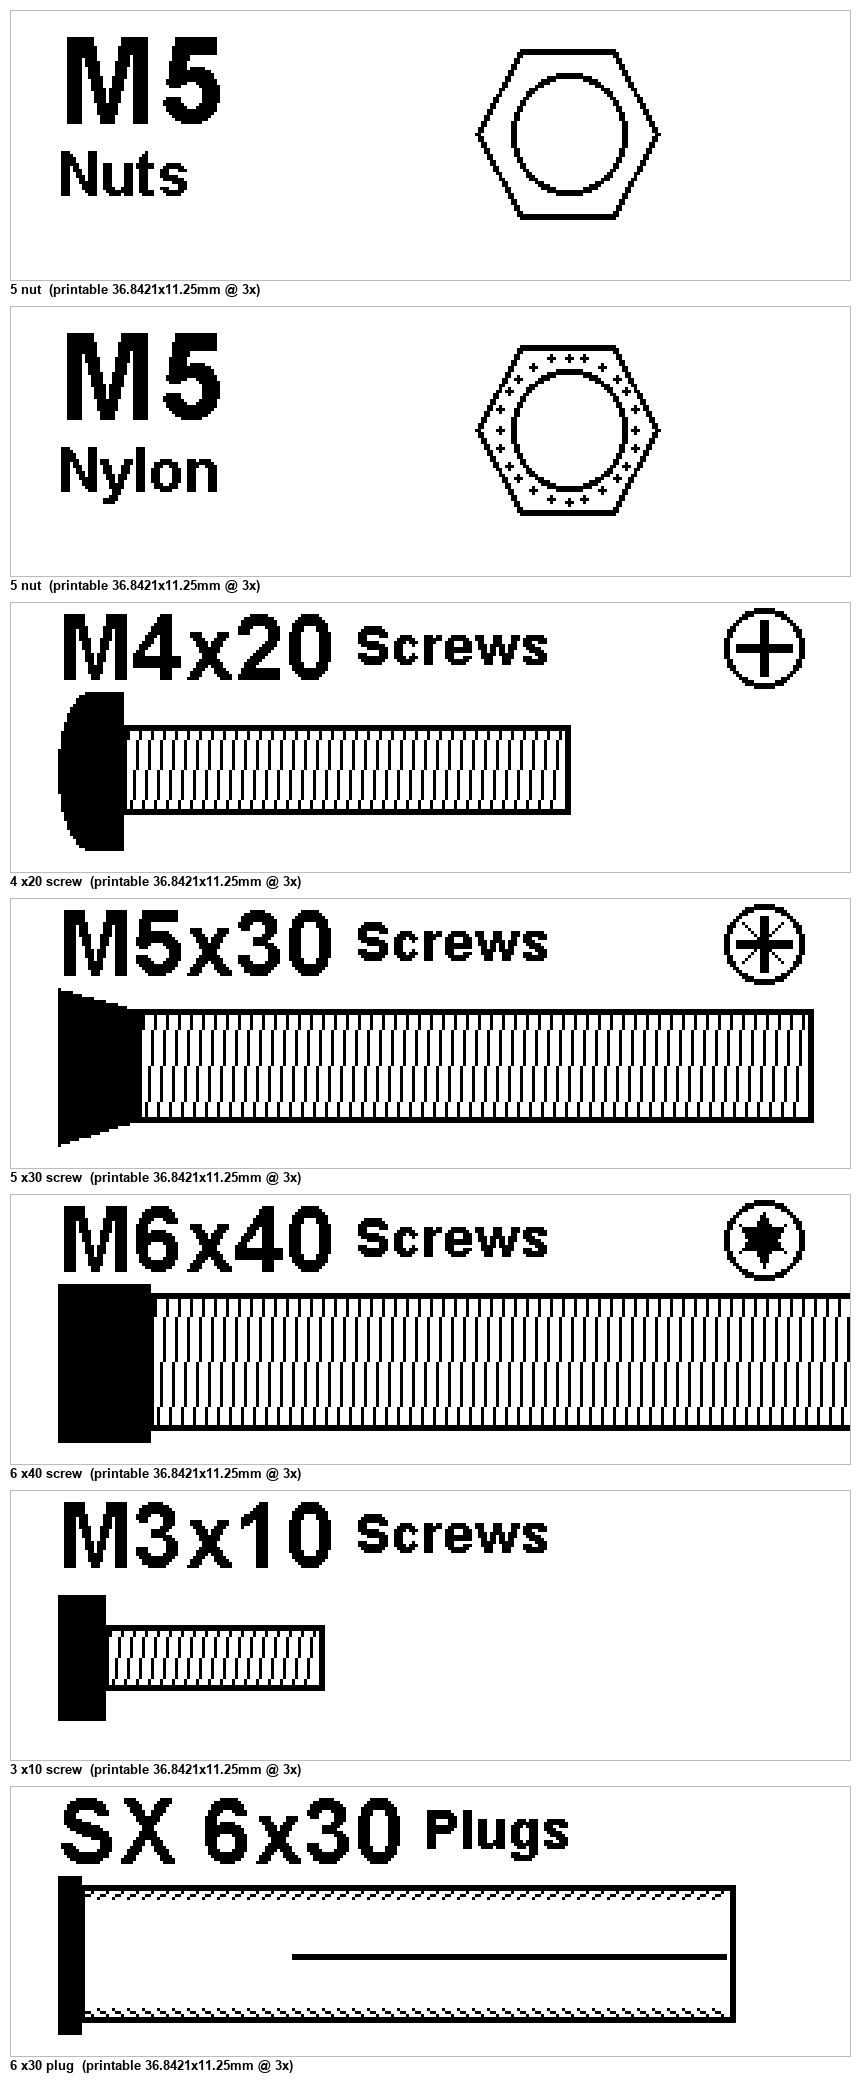
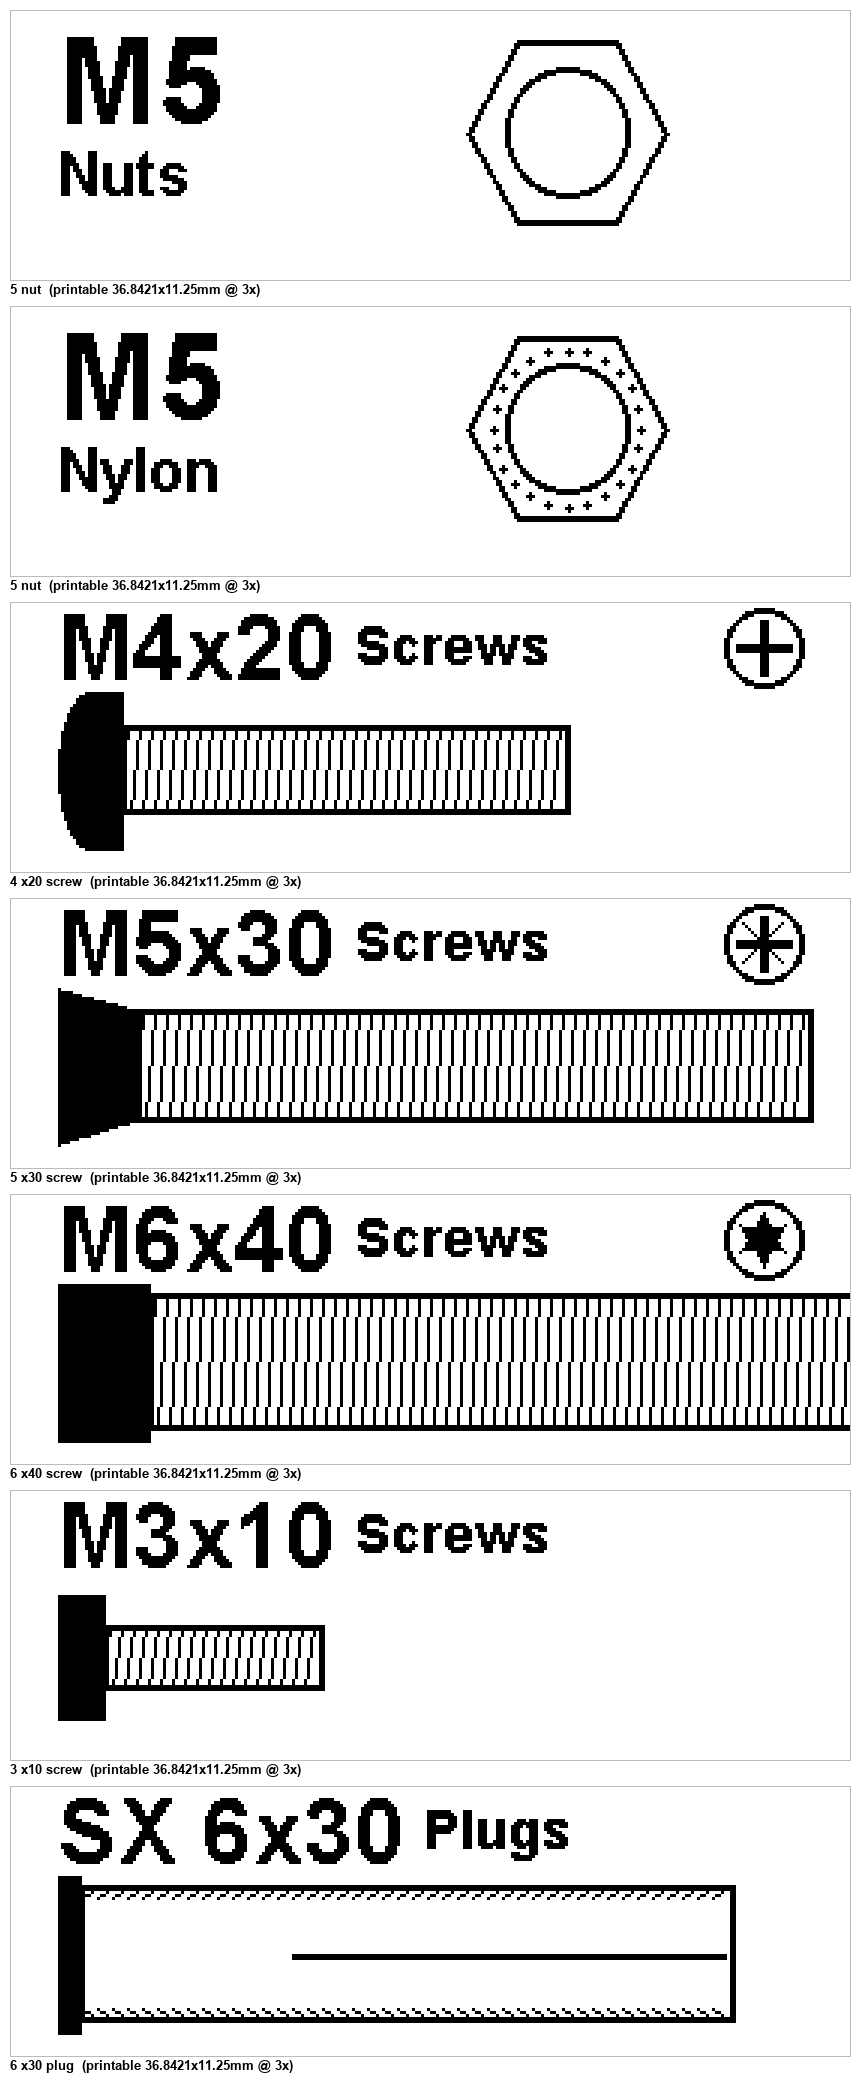
draw nuts at true ISO width across flats
NUT_SHRINK_MM subtracted a flat 1 mm from every nut, which stacked on top of the
LINE_BLEED compensation and left them ~0.6 mm narrow - most of a size step at
M2-M4. Replaced by NUT_BIAS_MM = 0 (a knob, not a correction), with the hex
outline bleed-compensated like any other outer edge.

The hole is an inner edge, so bleed closes it in rather than growing it; it is
now drawn LINE_BLEED wider, which is why an M10 hole measured 9.8 mm instead
of 10.

Changed region(s): [[0.5442, 0.0, 0.786, 0.1249], [0.5442, 0.1561, 0.786, 0.2498]]

diff --git a/gen.py b/gen.py
@@ -74,13 +74,19 @@ def _hex_points(cx, cy, waf_mm):
     ]
 
 
-NUT_SHRINK_MM = 1.0   # draw the hex 1 mm under WAF so the thin line traces the nut edge
+# Nudge every nut's width across flats, mm. 0 = true ISO size. This used to be a
+# flat -1 mm "shrink", which stacked on top of the LINE_BLEED compensation below
+# and left every nut ~0.6 mm narrow — most of a size step at M2-M4.
+NUT_BIAS_MM = 0.0
 NUT_CENTRE_FRAC = 1 / 3   # nut centre sits this fraction of the length in from the right
 
 def draw_nut(d: ImageDraw.ImageDraw, cx, cy, m, nylon=False):
-    waf = WAF.get(m, m * 1.6) - NUT_SHRINK_MM
-    d.polygon(_hex_points(cx, cy, waf), outline=BLACK, width=2)
-    rx, ry = (m / 2) * FEED_DPMM, (m / 2) * DPMM     # hole (round when printed)
+    # The hex outline is an OUTER edge (bleed grows it), the hole an INNER one
+    # (bleed closes it in), so they're compensated in opposite directions.
+    waf = WAF.get(m, m * 1.6) + NUT_BIAS_MM
+    d.polygon(_hex_points(cx, cy, waf - LINE_BLEED / DPMM), outline=BLACK, width=2)
+    rx = (m / 2) * FEED_DPMM + LINE_BLEED / 2
+    ry = (m / 2) * DPMM + LINE_BLEED / 2
     d.ellipse([cx - rx, cy - ry, cx + rx, cy + ry], outline=BLACK, width=2)
     if nylon:
         # nyloc insert: a dotted ring (reads 'grey' on B/W) between hole and hex
